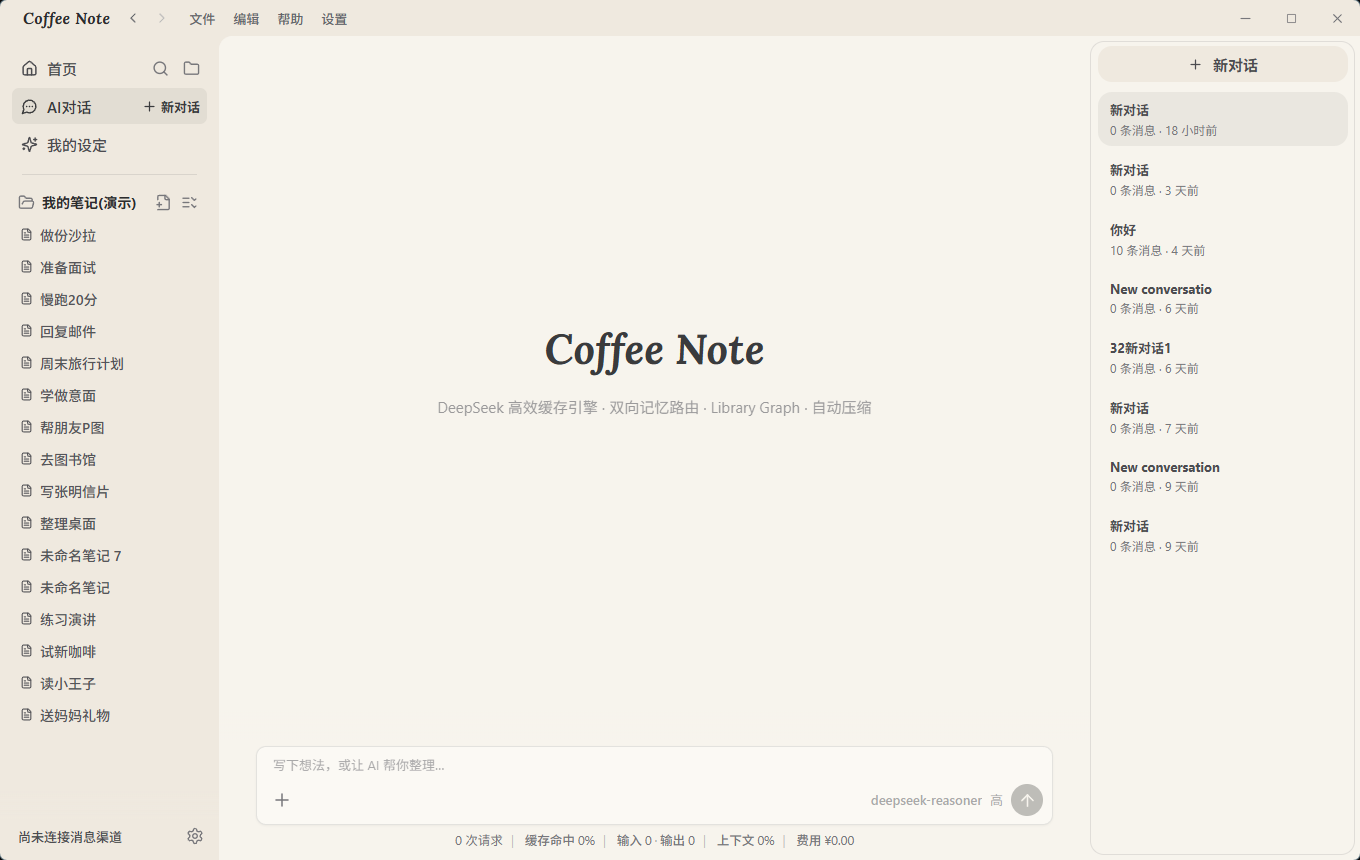
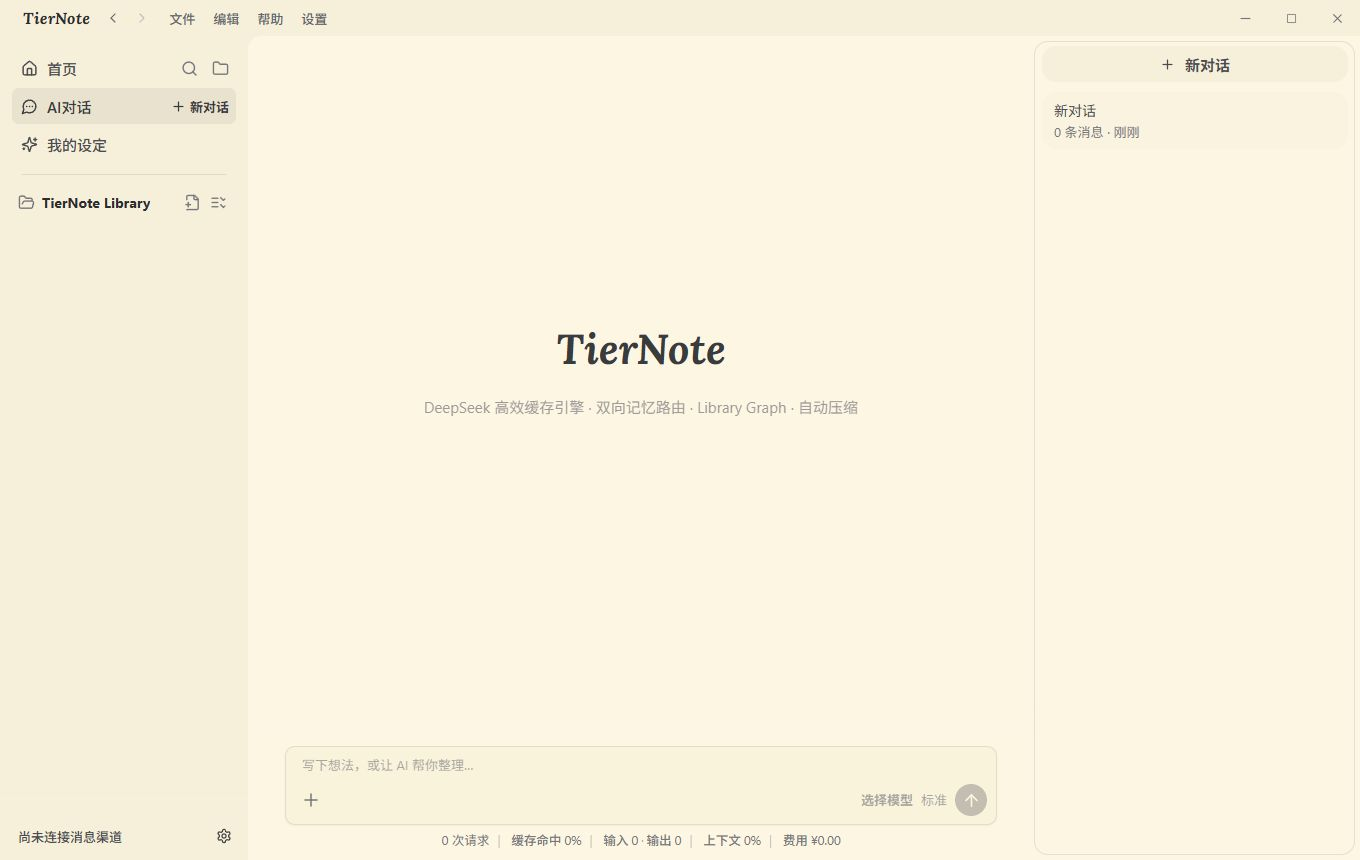
Refresh TierNote website and README

diff --git a/website/index.html b/website/index.html
@@ -3,8 +3,8 @@
 <head>
 <meta charset="UTF-8">
 <meta name="viewport" content="width=device-width, initial-scale=1.0">
-<title>TierNote — The AI note tool that saves you money, deeply optimized for DeepSeek</title>
-<meta name="description" content="TierNote — local-first AI note tool. DeepSeek-optimized, short videos become notes, notes generate PPT and video.">
+<title>TierNote — Notes from first principles</title>
+<meta name="description" content="TierNote is a local-first AI note workspace built from first principles. Clarify priorities with T1–T5, connect context, and turn notes into finished work.">
 <link rel="icon" type="image/png" href="brand/app-icon.png">
 <link rel="preconnect" href="https://fonts.googleapis.com">
 <link rel="preconnect" href="https://fonts.gstatic.com" crossorigin>
@@ -441,13 +441,13 @@
 <!-- ===== Hero ===== -->
 <header class="hero wrap">
   <p class="site-highlight-note">
-    <span class="site-highlight-copy" data-i18n="siteHighlightLead">Everything is a note. Notes create everything</span>
+    <span class="site-highlight-copy" data-i18n="siteHighlightLead">Notes from first principles</span>
     <span class="visually-hidden"> — </span>
     <span class="slogan-bridge" aria-hidden="true"></span>
-    <span class="site-highlight-copy" data-i18n="siteHighlightTail">rebuilding the Agent Loop from first principles to shape the future of AI notes.</span>
+    <span class="site-highlight-copy" data-i18n="siteHighlightTail">reduce complexity to what matters, then build from there.</span>
   </p>
-  <h1 data-i18n="heroTitle">The AI note tool that saves you money<br><span class="hero-accent">deeply optimized for DeepSeek</span></h1>
-  <p class="lead" data-i18n="heroLead">DeepSeek efficient caching · Paste TikTok / YouTube / X URL into text · Generate PPT or video · The more you use, the more you save</p>
+  <h1 data-i18n="heroTitle">Think clearly from first principles<br><span class="hero-accent">turn notes into action</span></h1>
+  <p class="lead" data-i18n="heroLead">Local-first Markdown · T1–T5 priorities · Context-aware AI · Notes become documents, presentations, and video</p>
   <div class="install-row">
     <a class="btn btn-primary" href="https://github.com/edison7009/TierNote/releases" target="_blank" rel="noopener noreferrer">
       <svg width="16" height="16" viewBox="0 0 24 24" fill="none" stroke="currentColor" stroke-width="2" stroke-linecap="round" stroke-linejoin="round" aria-hidden="true"><path d="M21 15v4a2 2 0 0 1-2 2H5a2 2 0 0 1-2-2v-4"/><path d="M7 10l5 5 5-5"/><path d="M12 15V3"/></svg>
@@ -476,10 +476,10 @@
   </div>
   <div class="hero-shot reveal">
     <img
-      src="screenshots/home-en.png"
+      src="screenshots/home-en.png?v=tiernote"
       alt="TierNote home"
-      data-shot-en="screenshots/home-en.png"
-      data-shot-zh="screenshots/home-zh.png"
+      data-shot-en="screenshots/home-en.png?v=tiernote"
+      data-shot-zh="screenshots/home-zh.png?v=tiernote"
       data-alt-en="TierNote home"
       data-alt-zh="TierNote 首页"
     >
@@ -488,9 +488,9 @@
 
 <!-- ===== Metrics ===== -->
 <div class="metrics">
-  <div class="metric"><strong>DeepSeek</strong><span data-i18n="m1">Every token earns 2x its value</span></div>
-  <div class="metric"><strong>Library Graph</strong><span data-i18n="m2">Drastically cuts file and folder read cost</span></div>
-  <div class="metric"><strong>Dual Memory</strong><span data-i18n="m3">The more you use, the more you save and the better it knows you</span></div>
+  <div class="metric"><strong>T1–T5</strong><span data-i18n="m1">Make priorities visible</span></div>
+  <div class="metric"><strong>Library Graph</strong><span data-i18n="m2">Retrieve only what matters</span></div>
+  <div class="metric"><strong>Local-first</strong><span data-i18n="m3">Your notes and context stay yours</span></div>
 </div>
 
 <!-- ===== Architecture ===== -->
@@ -512,10 +512,10 @@
     </div>
     <div class="shot reveal">
       <img
-        src="screenshots/chat-empty-en.png"
+        src="screenshots/chat-empty-en.png?v=tiernote"
         alt="TierNote AI workspace"
-        data-shot-en="screenshots/chat-empty-en.png"
-        data-shot-zh="screenshots/chat-empty-zh.png"
+        data-shot-en="screenshots/chat-empty-en.png?v=tiernote"
+        data-shot-zh="screenshots/chat-empty-zh.png?v=tiernote"
         data-alt-en="TierNote AI workspace"
         data-alt-zh="TierNote AI 工作区"
       >
@@ -533,10 +533,10 @@
   <div class="chapter flip">
     <div class="shot reveal">
       <img
-        src="screenshots/chat-en.png"
+        src="screenshots/chat-en.png?v=tiernote"
         alt="AI chat with token cost"
-        data-shot-en="screenshots/chat-en.png"
-        data-shot-zh="screenshots/chat-zh.png"
+        data-shot-en="screenshots/chat-en.png?v=tiernote"
+        data-shot-zh="screenshots/chat-zh.png?v=tiernote"
         data-alt-en="AI chat with token cost"
         data-alt-zh="显示 Token 与费用的 AI 对话"
       >
@@ -570,10 +570,10 @@
     </div>
     <div class="shot reveal">
       <img
-        src="screenshots/contexts-en.png"
+        src="screenshots/contexts-en.png?v=tiernote"
         alt="TierNote personal contexts"
-        data-shot-en="screenshots/contexts-en.png"
-        data-shot-zh="screenshots/contexts-zh.png"
+        data-shot-en="screenshots/contexts-en.png?v=tiernote"
+        data-shot-zh="screenshots/contexts-zh.png?v=tiernote"
         data-alt-en="TierNote personal contexts"
         data-alt-zh="TierNote 我的设定"
       >
@@ -591,10 +591,10 @@
   <div class="chapter flip">
     <div class="shot reveal">
       <img
-        src="screenshots/media-en.png"
+        src="screenshots/media-en.png?v=tiernote"
         alt="Media transcription dialog"
-        data-shot-en="screenshots/media-en.png"
-        data-shot-zh="screenshots/media-zh.png"
+        data-shot-en="screenshots/media-en.png?v=tiernote"
+        data-shot-zh="screenshots/media-zh.png?v=tiernote"
         data-alt-en="Media transcription dialog"
         data-alt-zh="媒体转文字窗口"
       >
@@ -628,10 +628,10 @@
     </div>
     <div class="shot reveal">
       <img
-        src="screenshots/channels-en.png"
+        src="screenshots/channels-en.png?v=tiernote"
         alt="TierNote message channels"
-        data-shot-en="screenshots/channels-en.png"
-        data-shot-zh="screenshots/channels-zh.png"
+        data-shot-en="screenshots/channels-en.png?v=tiernote"
+        data-shot-zh="screenshots/channels-zh.png?v=tiernote"
         data-alt-en="TierNote message channels"
         data-alt-zh="TierNote 消息渠道"
       >
@@ -673,8 +673,8 @@
 
 <!-- ===== Final CTA ===== -->
 <div class="final wrap" id="download">
-  <h2 data-i18n="finalTitle">The more you use, the more you save, <span class="final-brand">the better it knows you</span></h2>
-  <p data-i18n="finalSub">TierNote — the most affordable AI note tool</p>
+  <h2 data-i18n="finalTitle">Start with what matters. <span class="final-brand">Build from there.</span></h2>
+  <p data-i18n="finalSub">TierNote — notes from first principles</p>
   <a class="btn btn-primary" href="https://github.com/edison7009/TierNote/releases" target="_blank" rel="noopener noreferrer">
     <svg width="16" height="16" viewBox="0 0 24 24" fill="none" stroke="currentColor" stroke-width="2" stroke-linecap="round" stroke-linejoin="round" aria-hidden="true"><path d="M21 15v4a2 2 0 0 1-2 2H5a2 2 0 0 1-2-2v-4"/><path d="M7 10l5 5 5-5"/><path d="M12 15V3"/></svg>
     <span data-i18n="downloadBtn">Download TierNote</span>
@@ -700,18 +700,18 @@
   // ===== i18n: single-page language switch (coffeecli.com pattern) =====
   const I18N = {
     en: {
-      docTitle: 'TierNote — The AI note tool that saves you money, deeply optimized for DeepSeek',
-      siteHighlightLead: 'Everything is a note. Notes create everything',
-      siteHighlightTail: 'rebuilding the Agent Loop from first principles to shape the future of AI notes.',
-      heroTitle: 'The AI note tool that saves you money<br><span class="hero-accent">deeply optimized for DeepSeek</span>',
-      heroLead: 'DeepSeek efficient caching · Paste TikTok / YouTube / X URL into text · Generate PPT or video · The more you use, the more you save',
+      docTitle: 'TierNote — Notes from first principles',
+      siteHighlightLead: 'Notes from first principles',
+      siteHighlightTail: 'reduce complexity to what matters, then build from there.',
+      heroTitle: 'Think clearly from first principles<br><span class="hero-accent">turn notes into action</span>',
+      heroLead: 'Local-first Markdown · T1–T5 priorities · Context-aware AI · Notes become documents, presentations, and video',
       getBtn: 'Get TierNote',
       or: 'or',
       copy: 'Copy',
       feedback: 'Feedback',
-      m1: 'Every token earns 2x its value',
-      m2: 'Drastically cuts file and folder read cost',
-      m3: 'The more you use, the more you save and the better it knows you',
+      m1: 'Make priorities visible',
+      m2: 'Retrieve only what matters',
+      m3: 'Your notes and context stay yours',
       archKicker: 'An architecture designed for notes',
       archTitle: 'Still managing notes with coding tools?',
       archSub: 'Claude Code, Codex, OpenClaw, Hermes. They are built for software engineering, not for notes. Expensive, and not well managed: pay for costly model quotas, just to find a few notes?',
@@ -756,8 +756,8 @@
       genC3T: 'Get the artifact', genC3S: 'One instruction from notes to presentation. No copy-paste.',
       bandTitle: 'Short video → Note → PPT / Video. A perfect loop!',
       bandSub: 'Capture anything, organize it with cheap AI, and let notes grow into new forms.',
-      finalTitle: 'The more you use, the more you save, <span class="final-brand">the better it knows you</span>',
-      finalSub: 'TierNote — the most affordable AI note tool',
+      finalTitle: 'Start with what matters. <span class="final-brand">Build from there.</span>',
+      finalSub: 'TierNote — notes from first principles',
       downloadBtn: 'Download TierNote',
       enterpriseKicker: 'Enterprise',
       enterpriseTitle: 'Enterprise &amp; commercial licensing',
@@ -766,20 +766,20 @@
       footerRight: 'TierNote products',
     },
     zh: {
-      docTitle: 'TierNote — 帮你省钱的 AI 笔记工具，深度优化 DeepSeek',
-      siteHighlightLead: '一切皆笔记，笔记生万物',
-      siteHighlightTail: '以第一性原理重构 Agent Loop，打造未来 AI 笔记系统',
-      heroTitle: '帮你省钱的 AI 笔记工具<br><span class="hero-accent">深度优化 DeepSeek</span>',
-      heroLead: 'DeepSeek 高效缓存 · 粘贴抖音/小红书/B站地址转文字 · 生成PPT或视频 · 越用越省钱',
+      docTitle: 'TierNote — 从第一性原理出发的 AI 笔记',
+      siteHighlightLead: '从第一性原理出发',
+      siteHighlightTail: '把复杂问题拆回本质，再从笔记开始构建',
+      heroTitle: '从第一性原理出发<br><span class="hero-accent">让笔记成为行动</span>',
+      heroLead: '本地优先 Markdown · T1–T5 直观排序 · AI 理解关键上下文 · 笔记生成文档、PPT 与视频',
       getBtn: '获取 TierNote',
       or: '或',
       copy: '复制',
       cnTitle: '其他下载渠道:',
       cnBaidu: '百度网盘', cnQuark: '夸克网盘', cn123: '123云盘', cnFeedback: '问题反馈',
       feedback: 'Feedback',
-      m1: '让每个 token 产出 2x 倍价值',
-      m2: '大幅度节省读取文件和目录消耗',
-      m3: '越用越省钱、越用越懂你',
+      m1: '让优先级一目了然',
+      m2: '只检索真正相关的内容',
+      m3: '笔记与上下文留在本地',
       archKicker: '为笔记而设计的架构',
       archTitle: '还在用编程工具管理笔记？',
       archSub: 'Claude Code、Codex、OpenClaw、Hermes，它们是为程序员工程量身定制的。用来管理笔记，既昂贵又没管到位：订阅昂贵的模型额度，只查出几篇笔记？',
@@ -824,8 +824,8 @@
       genC3T: '拿到成品', genC3S: '一条指令从笔记到演示。不复制、不排版。',
       bandTitle: '短视频 → 笔记 → 生成PPT/视频，完美闭环！',
       bandSub: '收进任意内容，用便宜 AI 整理，再让笔记长出新的形态。',
-      finalTitle: '越用越省钱，<span class="final-brand">越用越懂你</span>',
-      finalSub: 'TierNote 你最省钱的 AI 笔记工具',
+      finalTitle: '先看清真正重要的事，<span class="final-brand">再从这里开始构建</span>',
+      finalSub: 'TierNote — 从第一性原理出发的 AI 笔记',
       downloadBtn: '下载 TierNote',
       enterpriseKicker: '企业采购',
       enterpriseTitle: '企业采购 / 商业授权',

diff --git a/README.md b/README.md
@@ -1,10 +1,8 @@
-<p align="center">
-  <img src="docs/images/readme-banner-en.png" width="100%" alt="The AI note tool that saves you money, deeply optimized for DeepSeek">
-</p>
-
 <div align="center">
   <img src="app-icon.png" width="96" height="96" alt="TierNote icon">
   <h1>TierNote</h1>
+
+  <p><strong>Notes from first principles.</strong><br>Reduce complexity to what matters, make priorities visible, and turn notes into action.</p>
 
   <p>
     <a href="https://github.com/edison7009/TierNote/releases/latest"><img alt="Latest release" src="https://img.shields.io/github/v/release/edison7009/TierNote?display_name=tag&amp;sort=semver&amp;color=d4a584"></a>
@@ -27,20 +25,22 @@
 
 ## Overview
 
-TierNote is a cross-platform desktop note agent built around local Markdown files. Its core experience is an editable **T1–T5 priority map**: your most important notes stay visible, while AI can search, organize, summarize, and create without turning the app into a coding tool or task manager.
+TierNote is a cross-platform desktop note agent built from a first-principles idea: before adding more information, make what matters clear. Its editable **T1–T5 priority map** keeps important notes visible, while local-first AI can search, organize, summarize, and create without turning the app into a coding tool or task manager.
 
 | Project | Current state |
 | --- | --- |
 | Desktop | Windows, macOS, Linux |
 | Storage | Local Markdown library and local conversation records |
 | Model protocols | OpenAI-compatible APIs and Anthropic Messages API |
-| Primary optimization | DeepSeek prefix-cache reuse and usage visibility |
+| Design principle | First-principles decomposition through visible T1–T5 tiers |
+| Model efficiency | DeepSeek prefix-cache reuse and usage visibility |
 | License | AGPL-3.0-or-later |
 
 > Release binaries are currently unsigned. Windows and macOS may show an unverified-publisher warning during installation.
 
 ## What it does
 
+- **First-principles workspace** — reduce a complicated body of notes to visible T1–T5 priorities, then build decisions and outputs from what matters.
 - **DeepSeek-aware AI chat** — stable request prefixes improve cache reuse; requests, cache hits, tokens, context use, and estimated cost remain visible.
 - **Library Graph retrieval** — searches titles, paths, headings, body text, Markdown links, and nearby notes without an embedding API, vector database, or indexing tokens.
 - **Local-first notes** — browse and edit ordinary Markdown files in a restrained three-pane desktop workspace.
@@ -142,7 +142,7 @@ cargo test --manifest-path src-tauri/Cargo.toml
 - Your note library and complete conversation records stay on your computer by default.
 - Only requests you initiate send the selected context to your configured model provider.
 - Knowledge-library access is path-scoped and canonicalized to block traversal outside the selected root.
-- Provider configuration, including API keys, is stored as plaintext JSON only in the current user's TierNote app-data directory. It is never written into this repository or the note library.
+- Provider configuration, including API keys, is stored as plaintext JSON only in the current user's legacy-compatible local app-data directory. The existing Coffee Note path is intentionally retained during the TierNote transition so upgrades do not lose configuration. It is never written into this repository or the note library.
 - No telemetry service is required for the local note workflow.
 
 ## Release process

diff --git a/README.zh-CN.md b/README.zh-CN.md
@@ -1,10 +1,8 @@
-<p align="center">
-  <img src="docs/images/readme-banner-zh.png" width="100%" alt="帮你省钱的 AI 笔记工具，深度优化 DeepSeek">
-</p>
-
 <div align="center">
   <img src="app-icon.png" width="96" height="96" alt="TierNote 图标">
   <h1>TierNote</h1>
+
+  <p><strong>从第一性原理出发的笔记。</strong><br>把复杂问题拆回本质，让优先级清晰可见，再让笔记成为行动。</p>
 
   <p>
     <a href="https://github.com/edison7009/TierNote/releases/latest"><img alt="最新版本" src="https://img.shields.io/github/v/release/edison7009/TierNote?display_name=tag&amp;sort=semver&amp;color=d4a584"></a>
@@ -27,20 +25,22 @@
 
 ## 项目概览
 
-TierNote 是围绕本地 Markdown 文件构建的跨平台桌面 Note Agent。产品核心是一张可编辑的 **T1–T5 优先级地图**：重要笔记始终保持可见，AI 可以检索、整理、总结与创作，但不会把笔记软件变成编程工具或任务管理器。
+TierNote 是从一个第一性原理出发构建的跨平台桌面 Note Agent：在增加更多信息之前，先看清真正重要的事。可编辑的 **T1–T5 优先级地图**让重要笔记始终保持可见；本地优先的 AI 可以检索、整理、总结与创作，但不会把笔记软件变成编程工具或任务管理器。
 
 | 项目 | 当前状态 |
 | --- | --- |
 | 桌面平台 | Windows、macOS、Linux |
 | 数据存储 | 本地 Markdown 笔记库与本地对话记录 |
 | 模型协议 | OpenAI 兼容 API、Anthropic Messages API |
-| 核心优化 | DeepSeek 前缀缓存复用与用量可视化 |
+| 设计原则 | 用可见的 T1–T5 分层拆解复杂问题 |
+| 模型效率 | DeepSeek 前缀缓存复用与用量可视化 |
 | 开源协议 | AGPL-3.0-or-later |
 
 > 当前发布包尚未进行代码签名，Windows 与 macOS 安装时可能提示“未知发布者”或“无法验证开发者”。
 
 ## 核心能力
 
+- **第一性原理工作区**：把复杂笔记拆回清晰可见的 T1–T5 优先级，再从真正重要的内容生成决策与成果。
 - **DeepSeek 优化的 AI 对话**：稳定请求前缀提高缓存复用机会，对话中直接显示请求数、缓存命中、Token、上下文用量与费用估算。
 - **Library Graph 本地检索**：综合标题、路径、章节、正文、Markdown 链接与邻近笔记，无需 Embedding API、向量数据库或索引 Token。
 - **本地优先笔记**：在安静的三栏桌面工作区浏览和编辑普通 Markdown 文件。
@@ -142,7 +142,7 @@ cargo test --manifest-path src-tauri/Cargo.toml
 - 笔记库与完整对话记录默认保存在当前电脑上。
 - 只有用户主动发起模型请求时，所选上下文才会发送给已配置的模型服务商。
 - 知识库访问会进行路径限定和 canonicalize 检查，阻止越过所选根目录。
-- 模型配置（包括 API Key）仅以明文 JSON 保存在当前用户的 TierNote 应用数据目录，不会写入仓库或笔记库。
+- 模型配置（包括 API Key）仅以明文 JSON 保存在当前用户的兼容性本地应用数据目录。TierNote 过渡期间有意保留原 Coffee Note 路径，避免升级后丢失配置；这些内容不会写入仓库或笔记库。
 - 本地笔记工作流不依赖遥测服务。
 
 ## 发布流程
